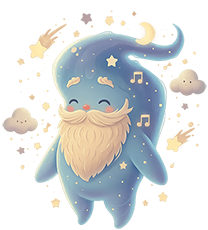
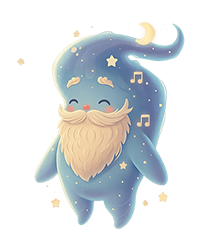
ajustes frontend cores

diff --git a/frontend/src/components/AudioPlayer.tsx b/frontend/src/components/AudioPlayer.tsx
@@ -355,13 +355,13 @@ const AudioPlayer = () => {
   }, []);
 
   return (
-    <div ref={playerRef} className="fixed bottom-0 left-0 right-0 bg-white/10 backdrop-blur-lg border-t p-4">
+    <div ref={playerRef} className="fixed bottom-0 left-0 right-0 bg-sidebar/80 backdrop-blur-xl border-t border-sidebar-border p-4 z-50 shadow-[0_-4px_6px_-1px_rgba(0,0,0,0.1)] text-sidebar-foreground">
       {/* Mobile Layout */}
       <div className="md:hidden">
         <div className="flex items-center gap-4">
-          <Image src={currentTrack?.coverUrl || fallbackAudio} alt={currentTrack ? currentTrack.title : 'Sem faixa'} width={56} height={56} className="w-14 h-14 rounded-md bg-muted object-cover" />
-          <div className="flex-1">
-            <h3 className="font-semibold">{currentTrack ? currentTrack.title : 'Sem faixa'}</h3>
+          <Image src={currentTrack?.coverUrl || fallbackAudio} alt={currentTrack ? currentTrack.title : 'Sem faixa'} width={56} height={56} className="w-14 h-14 rounded-md bg-sidebar-accent object-cover border border-sidebar-border" />
+          <div className="flex-1 min-w-0">
+            <h3 className="font-semibold truncate text-sidebar-foreground">{currentTrack ? currentTrack.title : 'Sem faixa'}</h3>
           </div>
           <DropdownMenu>
             <DropdownMenuTrigger asChild>
@@ -461,11 +461,11 @@ const AudioPlayer = () => {
 
       {/* Desktop Layout */}
       <div className="hidden md:flex items-center gap-4 w-full">
-        <Image src={currentTrack?.coverUrl || fallbackAudio} alt={currentTrack ? currentTrack.title : 'Sem faixa'} width={64} height={64} className="w-16 h-16 rounded-md bg-muted object-cover" />
+        <Image src={currentTrack?.coverUrl || fallbackAudio} alt={currentTrack ? currentTrack.title : 'Sem faixa'} width={64} height={64} className="w-16 h-16 rounded-md bg-sidebar-accent object-cover border border-sidebar-border" />
         <div className="flex-1">
-          <h3 className="font-semibold">{currentTrack ? currentTrack.title : 'Sem faixa'}</h3>
+          <h3 className="font-semibold text-sidebar-foreground">{currentTrack ? currentTrack.title : 'Sem faixa'}</h3>
           <div className="flex items-center gap-2 mt-1">
-            <span className="text-xs">{formatTime(position)}</span>
+            <span className="text-xs text-sidebar-foreground/70">{formatTime(position)}</span>
             <Slider
               value={[position]}
               max={Number.isFinite(duration) ? Math.max(duration, 1) : Math.max(position, 1)}
@@ -479,25 +479,25 @@ const AudioPlayer = () => {
                 if (el) el.currentTime = val;
               }}
             />
-            <span className="text-xs">{formatTime(duration || 0)}</span>
+            <span className="text-xs text-sidebar-foreground/70">{formatTime(duration || 0)}</span>
           </div>
         </div>
         <div className="flex items-center gap-4">
-          <SkipBack className={`w-6 h-6 ${currentTrack ? 'cursor-pointer' : 'opacity-50 cursor-not-allowed'}`} onClick={currentTrack ? prevTrack : undefined} />
-          <div className={`w-10 h-10 ${currentTrack ? 'bg-primary text-primary-foreground cursor-pointer' : 'bg-muted text-muted-foreground cursor-not-allowed'} rounded-full flex items-center justify-center`} onClick={currentTrack ? async () => {
+          <SkipBack className={`w-6 h-6 ${currentTrack ? 'cursor-pointer text-sidebar-foreground hover:text-sidebar-primary' : 'opacity-50 cursor-not-allowed text-sidebar-foreground/50'}`} onClick={currentTrack ? prevTrack : undefined} />
+          <div className={`w-10 h-10 ${currentTrack ? 'bg-sidebar-primary text-sidebar-primary-foreground hover:bg-sidebar-primary/90 cursor-pointer' : 'bg-sidebar-accent text-sidebar-foreground/50 cursor-not-allowed'} rounded-full flex items-center justify-center transition-colors`} onClick={currentTrack ? async () => {
             const el = audioRef.current;
             if (!el) return;
             if (isPlaying) { el.pause(); setIsPlaying(false); } else { await el.play(); setIsPlaying(true); }
           } : undefined}>
             {isPlaying ? <Pause className="w-6 h-6" /> : <Play className="w-6 h-6" />}
           </div>
-          <SkipForward className={`w-6 h-6 ${currentTrack ? 'cursor-pointer' : 'opacity-50 cursor-not-allowed'}`} onClick={currentTrack ? nextTrack : undefined} />
+          <SkipForward className={`w-6 h-6 ${currentTrack ? 'cursor-pointer text-sidebar-foreground hover:text-sidebar-primary' : 'opacity-50 cursor-not-allowed text-sidebar-foreground/50'}`} onClick={currentTrack ? nextTrack : undefined} />
         </div>
         <div className="flex items-center gap-2 w-28">
           {isMuted || volume === 0 ? (
-            <VolumeX className="w-5 h-5 cursor-pointer" onClick={toggleMute} />
+            <VolumeX className="w-5 h-5 cursor-pointer text-sidebar-foreground hover:text-sidebar-primary" onClick={toggleMute} />
           ) : (
-            <Volume2 className="w-5 h-5 cursor-pointer" onClick={toggleMute} />
+            <Volume2 className="w-5 h-5 cursor-pointer text-sidebar-foreground hover:text-sidebar-primary" onClick={toggleMute} />
           )}
           <Slider
             value={[volume]}
@@ -517,7 +517,7 @@ const AudioPlayer = () => {
               variant="outline"
               size="icon"
               aria-label="Playlist"
-              className={`${pulsePlaylistBtn ? 'bg-yellow-50 text-yellow-600 ring-2 ring-yellow-400 shadow-[0_0_16px_2px_rgba(250,204,21,0.6)] scale-110' : ''} transition-all duration-300 transform`}
+              className={`${pulsePlaylistBtn ? 'bg-yellow-50 text-yellow-600 ring-2 ring-yellow-400 shadow-[0_0_16px_2px_rgba(250,204,21,0.6)] scale-110' : 'bg-transparent border-sidebar-border text-sidebar-foreground hover:bg-sidebar-accent hover:text-sidebar-accent-foreground'} transition-all duration-300 transform`}
             >
               <List className="w-5 h-5" />
             </Button>

diff --git a/frontend/src/app/globals.css b/frontend/src/app/globals.css
@@ -17,10 +17,10 @@ All colors MUST be HSL.
     --popover: 0 0% 100%;
     --popover-foreground: 220 20% 20%;
 
-    --primary: 210 100% 65%;
+    --primary: 262.1 83.3% 57.8%;
     --primary-foreground: 0 0% 100%;
 
-    --secondary: 340 85% 75%;
+    --secondary: 38 92% 50%;
     --secondary-foreground: 0 0% 100%;
 
     --muted: 210 40% 96%;
@@ -37,17 +37,17 @@ All colors MUST be HSL.
 
     --border: 210 30% 88%;
     --input: 210 30% 88%;
-    --ring: 210 100% 65%;
+    --ring: 262.1 83.3% 57.8%;
 
     --radius: 1rem;
     
-    --gradient-hero: linear-gradient(135deg, hsl(210 100% 65%) 0%, hsl(340 85% 75%) 100%);
+    --gradient-hero: linear-gradient(135deg, hsl(262.1 83.3% 57.8%) 0%, hsl(38 92% 50%) 100%);
     --gradient-card: linear-gradient(180deg, hsl(0 0% 100%) 0%, hsl(210 55% 98%) 100%);
-    --gradient-accent: linear-gradient(135deg, hsl(45 95% 70%) 0%, hsl(340 85% 75%) 100%);
+    --gradient-accent: linear-gradient(135deg, hsl(45 95% 70%) 0%, hsl(38 92% 50%) 100%);
     
-    --shadow-soft: 0 4px 20px -4px hsl(210 100% 65% / 0.15);
-    --shadow-medium: 0 8px 30px -6px hsl(210 100% 65% / 0.2);
-    --shadow-large: 0 20px 50px -12px hsl(210 100% 65% / 0.25);
+    --shadow-soft: 0 4px 20px -4px hsl(262.1 83.3% 57.8% / 0.15);
+    --shadow-medium: 0 8px 30px -6px hsl(262.1 83.3% 57.8% / 0.2);
+    --shadow-large: 0 20px 50px -12px hsl(262.1 83.3% 57.8% / 0.25);
     
     --transition-smooth: all 0.3s cubic-bezier(0.4, 0, 0.2, 1);
     --transition-bounce: all 0.4s cubic-bezier(0.68, -0.55, 0.265, 1.55);
@@ -57,21 +57,21 @@ All colors MUST be HSL.
 
     --radius: 1rem;
 
-    --sidebar-background: 0 0% 98%;
+    --sidebar-background: 244 47% 20%;
 
-    --sidebar-foreground: 240 5.3% 26.1%;
+    --sidebar-foreground: 210 40% 98%;
 
-    --sidebar-primary: 240 5.9% 10%;
+    --sidebar-primary: 262.1 83.3% 57.8%;
 
-    --sidebar-primary-foreground: 0 0% 98%;
+    --sidebar-primary-foreground: 0 0% 100%;
 
-    --sidebar-accent: 240 4.8% 95.9%;
+    --sidebar-accent: 244 47% 25%;
 
-    --sidebar-accent-foreground: 240 5.9% 10%;
+    --sidebar-accent-foreground: 210 40% 98%;
 
-    --sidebar-border: 220 13% 91%;
+    --sidebar-border: 244 47% 30%;
 
-    --sidebar-ring: 217.2 91.2% 59.8%;
+    --sidebar-ring: 262.1 83.3% 57.8%;
   }
 
   .dark {
@@ -84,10 +84,10 @@ All colors MUST be HSL.
     --popover: 220 20% 16%;
     --popover-foreground: 210 40% 98%;
 
-    --primary: 210 100% 65%;
+    --primary: 262.1 83.3% 57.8%;
     --primary-foreground: 0 0% 100%;
 
-    --secondary: 340 85% 75%;
+    --secondary: 38 92% 50%;
     --secondary-foreground: 0 0% 100%;
 
     --muted: 220 20% 20%;
@@ -104,16 +104,16 @@ All colors MUST be HSL.
 
     --border: 220 20% 24%;
     --input: 220 20% 24%;
-    --ring: 210 100% 65%;
+    --ring: 262.1 83.3% 57.8%;
     
     --sidebar-background: 220 25% 12%;
     --sidebar-foreground: 210 40% 98%;
-    --sidebar-primary: 210 100% 65%;
+    --sidebar-primary: 262.1 83.3% 57.8%;
     --sidebar-primary-foreground: 0 0% 100%;
     --sidebar-accent: 220 20% 20%;
     --sidebar-accent-foreground: 210 40% 98%;
     --sidebar-border: 220 20% 24%;
-    --sidebar-ring: 210 100% 65%;
+    --sidebar-ring: 262.1 83.3% 57.8%;
   }
 }
 

diff --git a/frontend/src/components/Sidebar.tsx b/frontend/src/components/Sidebar.tsx
@@ -1,8 +1,10 @@
 "use client";
 
 import Link from "next/link";
+import Image from "next/image";
 import { Home, Users, Library, CreditCard, User } from "lucide-react";
 import { usePathname } from "next/navigation";
+import logoHorizontal from "../assets/logo-horizontal.webp";
 
 const navItems = [
   { href: "/dashboard", icon: Home, label: "Início" },
@@ -16,8 +18,17 @@ const Sidebar = () => {
   const pathname = usePathname();
 
   return (
-    <aside className="w-64 bg-muted/40 p-6 flex flex-col h-full">
-      <h2 className="text-2xl font-bold mb-8 gradient-hero bg-clip-text">KidsVerse</h2>
+    <aside className="w-64 bg-sidebar border-r border-sidebar-border p-6 flex flex-col h-full text-sidebar-foreground">
+      <div className="mb-8 px-2">
+        <Image 
+          src={logoHorizontal} 
+          alt="BabyTune" 
+          width={160} 
+          height={48} 
+          className="h-10 w-auto object-contain"
+          priority
+        />
+      </div>
       <nav className="flex flex-col gap-2">
         {navItems.map((item) => {
           const Icon = item.icon;
@@ -31,8 +42,8 @@ const Sidebar = () => {
               className={
                 `flex items-center gap-3 p-3 rounded-lg transition-smooth ` +
                 (isActive
-                  ? "bg-primary/10 text-primary"
-                  : "text-muted-foreground hover:bg-primary/10 hover:text-primary")
+                  ? "bg-sidebar-primary text-sidebar-primary-foreground font-medium"
+                  : "text-sidebar-foreground/70 hover:bg-sidebar-accent hover:text-sidebar-accent-foreground")
               }
             >
               <Icon className="w-5 h-5" />
